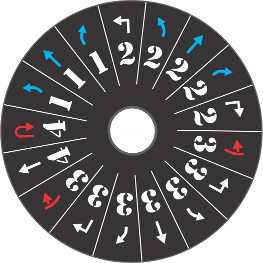
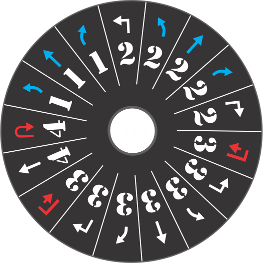
update beta

Changed region(s): [[0.8517, 0.5171, 0.943, 0.6388], [0.1521, 0.73, 0.2433, 0.8213]]

diff --git a/xwing_dial_beta/game.js b/xwing_dial_beta/game.js
@@ -170,6 +170,7 @@ function loadState() {
     init_dials = obj.init_dials
     ship_string_id = obj.ship_string_id
     damage_deck = obj.damage_deck
+    ship_damage = obj.ship_damage
 }
 
 function  saveState(){
@@ -178,7 +179,8 @@ function  saveState(){
         angles: angles,
         init_dials: init_dials,
         ship_string_id: ship_string_id,
-        damage_deck: damage_deck
+        damage_deck: damage_deck,
+        ship_damage: ship_damage
     };
     window.sessionStorage.setItem('xwingDials', JSON.stringify(obj) )
 };
@@ -267,6 +269,9 @@ playGame.prototype = {
             game.load.image("unlock", "unlock.png");
             game.load.image("lock", "lock.png");
             game.load.image("pin", "pin.png");     
+            game.load.image("hit", "hit_icon.png");                 
+            game.load.image("crit", "crit_icon.png");     
+            game.load.image("damage", "damage.png");     
             game.load.image("dial_selector", "dial_selector.png")
             game.load.image("window_damage","window_damage.png")
 
@@ -322,11 +327,20 @@ playGame.prototype = {
             selector[key].anchor.set(0.5);
             selector[key].inputEnabled = false;
 
-            // damage "window" button
-            wheel[key].__damage_button = game.add.text( game.width-64, 350*i+90, 'DAM\nAGE', {font: '20px Arial', backgroundColor: 'orange' });
+            // damage "window" button open
+            wheel[key].__damage_button = game.add.sprite( game.width-64, 350*i+90, 'damage' );
             wheel[key].__damage_button.inputEnabled = true
-            wheel[key].__damage_button.events.onInputDown.add( this.toggleDamage, this );
+            wheel[key].__damage_button.events.onInputDown.add( this.openDamageWindow, this );
+wheel[key].__damage_button.events.onInputUp.add( this.releaseLockDial, this );
             wheel[key].__damage_button.__mykey = key;
+
+            // damage "window" button close
+            wheel[key].__damage_close_button = game.add.sprite( game.width-64, 350*i+90, 'unlock' );
+            wheel[key].__damage_close_button.inputEnabled = false
+            wheel[key].__damage_close_button.alpha = 0.0;
+                    wheel[key].__damage_close_button.events.onInputDown.add( this.closeDamageWindow, this );
+
+            wheel[key].__damage_close_button.__mykey = key;
 
 
             // damage "window"
@@ -335,22 +349,23 @@ playGame.prototype = {
             wheel[key].__damage_window.inputEnabled = false
 
             // damage text (the list of damages)
-            wheel[key].__damage_text = game.add.text( 20, 350*i+90, 'Cartas de dano:', {font: '14px Arial' });
+            wheel[key].__damage_text = game.add.text( 20, 350*i+90, '', { font: '14px Arial' });
             wheel[key].__damage_text.inputEnabled = true
-            wheel[key].__damage_text.events.onInputDown.add( this.toggleDamage, this );
+            wheel[key].__damage_text.events.onInputDown.add( this.closeDamageWindow, this );
             wheel[key].__damage_text.__mykey = key;
             wheel[key].__damage_text.alpha = 0.0;
             wheel[key].__damage_text.inputEnabled = false
+            this.updateDamageText(key);
 
             // damage buttons (to give a hit or crit damage)
-            wheel[key].__hit_button = game.add.text( 200, 350*i+90, 'Hit', {font: '20px Arial', backgroundColor: 'orange' });
+            wheel[key].__hit_button = game.add.sprite( 200, 350*i+90, 'hit' )
             wheel[key].__hit_button.inputEnabled = true
             wheel[key].__hit_button.events.onInputDown.add( this.giveHit, this );
             wheel[key].__hit_button.__mykey = key;
             wheel[key].__hit_button.alpha = 0.0 //invisible
             wheel[key].__hit_button.inputEnabled = false
 
-            wheel[key].__crit_button = game.add.text( 226, 350*i+90, 'Crit', {font: '20px Arial', backgroundColor: 'yellow' });
+            wheel[key].__crit_button = game.add.sprite( 226, 350*i+90, 'crit' )
             wheel[key].__crit_button.inputEnabled = true
             wheel[key].__crit_button.events.onInputDown.add( this.giveCrit, this );
             wheel[key].__crit_button.__mykey = key;
@@ -392,8 +407,10 @@ playGame.prototype = {
     releaseLockDial(o,e) {
         game.input.touch.preventDefault = false; // enable scroll for back
     },
-    toggleDamage(o,e) {
+    openDamageWindow(o,e) {
         var key = o.__mykey;
+        console.log("openDamageWindow")
+        game.input.touch.preventDefault = true; // disable scroll for now
         if ( wheel[key].__mystate == 'wheel' ) {
             wheel[key].__damage_window.alpha = 1.0;
             wheel[key].__damage_text.alpha = 1.0;
@@ -404,7 +421,19 @@ playGame.prototype = {
             wheel[key].__hit_button.inputEnabled = true;
             wheel[key].__crit_button.inputEnabled = true;
             wheel[key].__mystate = 'damage';
-        } else if ( wheel[key].__mystate == 'damage' ) {
+
+            wheel[key].__damage_button.alpha = 0.0;
+            wheel[key].__damage_button.inputEnabled = false;
+            wheel[key].__damage_close_button.alpha = 1.0;
+            wheel[key].__damage_close_button.inputEnabled = true;
+        } else {
+            alert("Estado '"+wheel[key].__mystate+"' inválido em openDamageWindow! mande um print pro desenvolvedor q é bug!");
+        }
+    },
+    closeDamageWindow(o,e) {
+        var key = o.__mykey;
+        console.log("closeDamageWindow")
+        if ( wheel[key].__mystate == 'damage' ) {
             wheel[key].__damage_window.alpha = 0.0;
             wheel[key].__damage_text.alpha = 0.0;
             wheel[key].__hit_button.alpha = 0.0;
@@ -414,8 +443,13 @@ playGame.prototype = {
             wheel[key].__hit_button.inputEnabled = false;
             wheel[key].__crit_button.inputEnabled = false;
             wheel[key].__mystate = 'wheel';
+
+            wheel[key].__damage_button.alpha = 1.0;
+            wheel[key].__damage_button.inputEnabled = true;
+            wheel[key].__damage_close_button.alpha = 0.0;
+            wheel[key].__damage_close_button.inputEnabled = false;
         } else {
-            alert("Estado '"+wheel[key].__mystate+"' inválido! mande um print pro desenvolvedor q é bug!");
+            alert("Estado '"+wheel[key].__mystate+"' inválido em closeDamageWindow! mande um print pro desenvolvedor q é bug!");
         }
     },
     giveHit(o,e) {
@@ -447,6 +481,7 @@ playGame.prototype = {
             }            
         });
         wheel[shipKey].__damage_text.setText(text);
+        saveState()
     },
     update(){
         if (game.input.activePointer.isDown ) {
